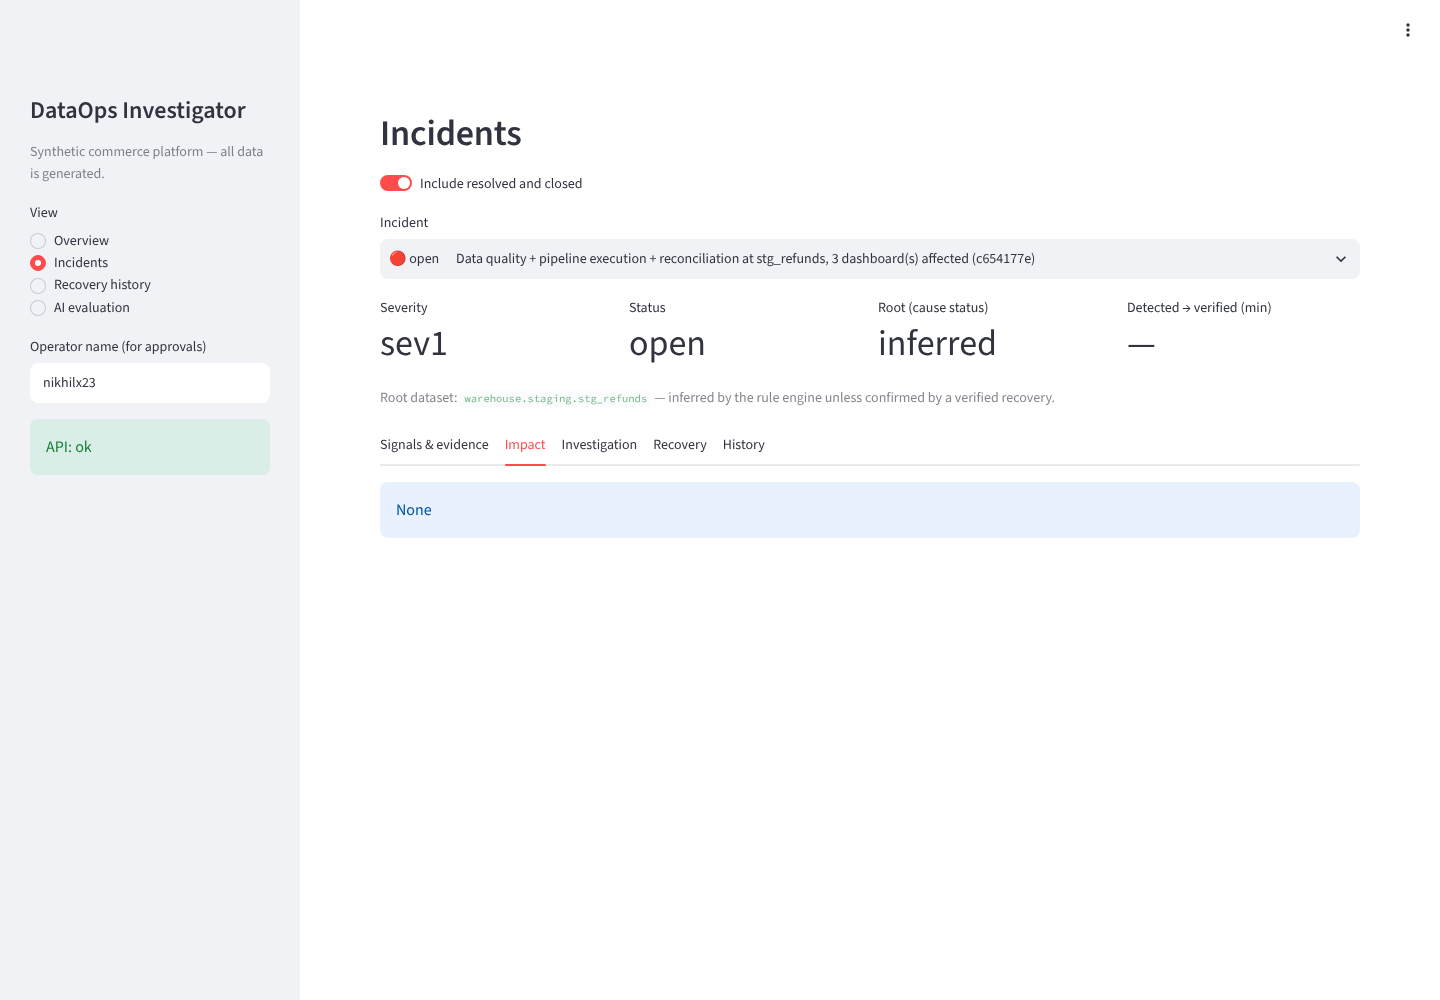
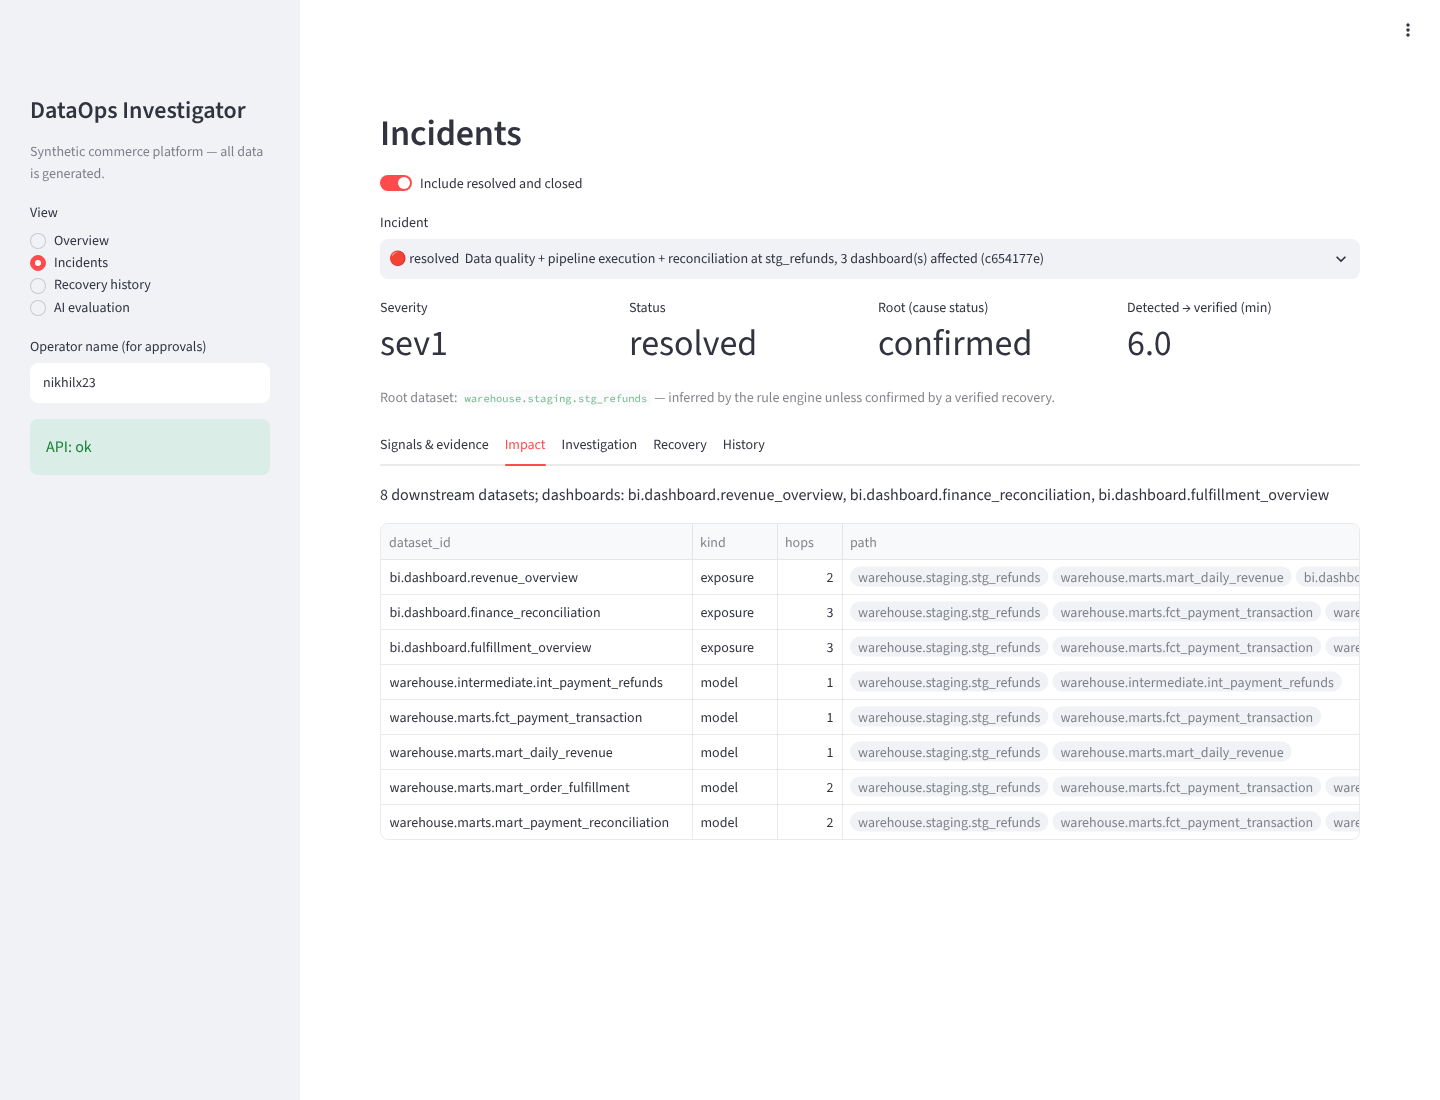
Fix impact tab showing None; update screenshot

diff --git a/apps/dashboard/app.py b/apps/dashboard/app.py
@@ -173,10 +173,10 @@ def incidents_page() -> None:
         st.dataframe(pd.DataFrame(inc["evidence"]), hide_index=True, use_container_width=True)
     with t2:
         imp = get(f"/incidents/{inc['incident_id']}/impact")
-        if imp.get("root"):
+        if imp.get("impacted") is not None:
             st.write(
                 f"{imp['downstream_count']} downstream datasets; dashboards: "
-                + ", ".join(imp["dashboards"])
+                + (", ".join(imp["dashboards"]) or "none")
             )
             st.dataframe(
                 pd.DataFrame(imp["impacted"])[["dataset_id", "kind", "hops", "path"]],
@@ -184,7 +184,7 @@ def incidents_page() -> None:
                 use_container_width=True,
             )
         else:
-            st.info(imp.get("note"))
+            st.info(imp.get("note") or "no impact information for this incident")
     with t3:
         mode = st.radio(
             "Mode",

diff --git a/src/dataops/api/app.py b/src/dataops/api/app.py
@@ -161,7 +161,7 @@ def impact(incident_id: UUID) -> dict[str, Any]:
             "note": "incident is keyed by a group (several roots); see its signals",
         }
     g, version = lineage.load_latest()
-    return _clean({"lineage_version": version, **lineage.impact(g, root)})
+    return _clean({"root": root, "lineage_version": version, **lineage.impact(g, root)})
 
 
 # ------------------------------------------------------------------ investigations
